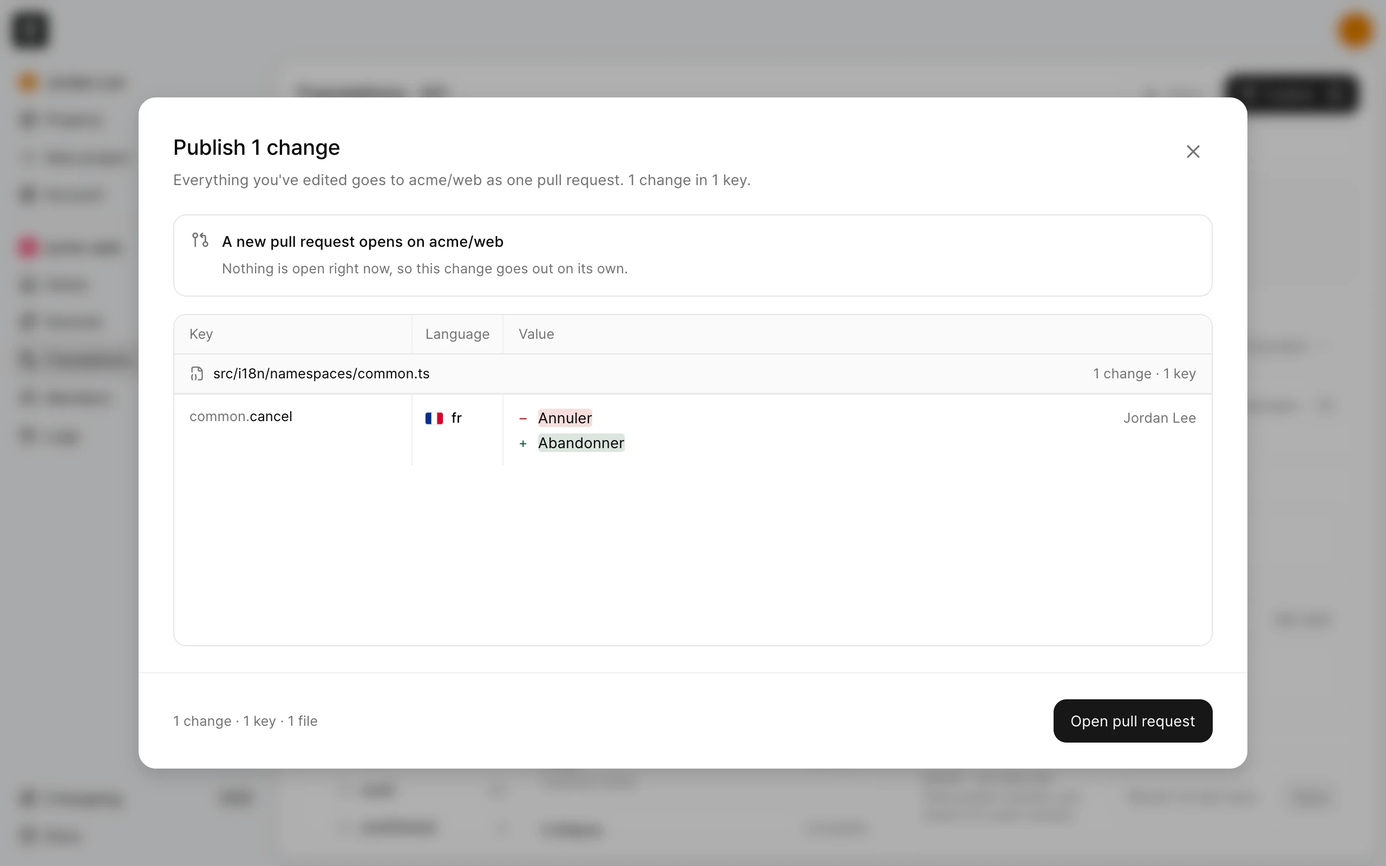
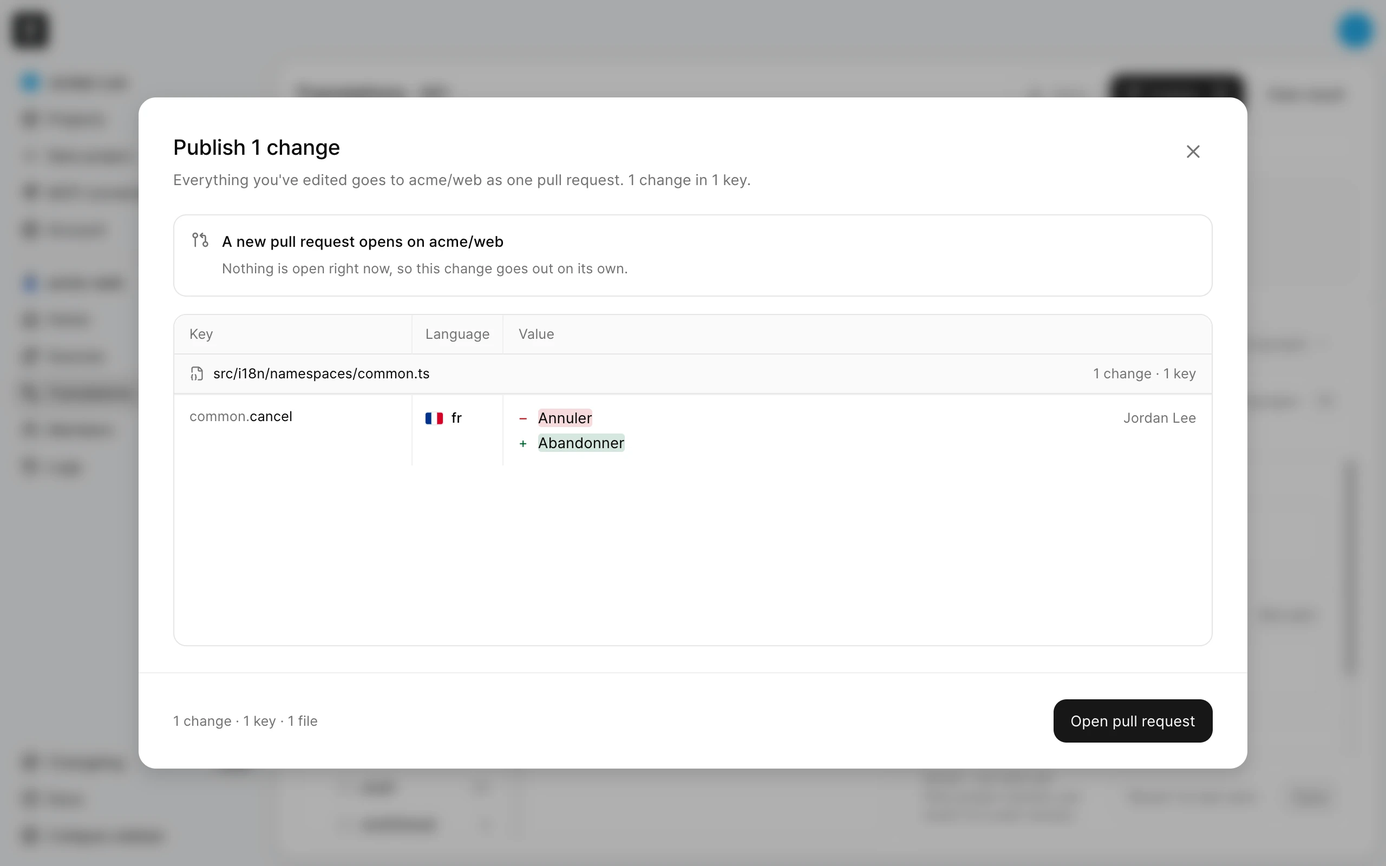
docs(guide): add 17 screenshots and reshoot the shell cuts
New full-viewport shots for Home, members, sources, archive, joining,
filters, publish, sync, revert, logs, account, and the MCP connector.
The three shell cuts are reshot for the MCP connector nav entry.

diff --git a/guide/SHOOTING.md b/guide/SHOOTING.md
@@ -35,8 +35,10 @@
 | bugshot-i18n-test-qa | acme-web |
 | malmoi-test-org | acme |
 | bugshot-i18n-test | web |
+| i18n-order-check | acme-mobile |
 
-**사람을 가리키는 값은 이 표에 적지 않는다** — 표 자체가 공개 리포에 커밋된다. 계정 표시 이름은 `Alex Kim`으로 바꾸고, 이메일·아바타·계정 메뉴는 크롭 밖으로 뺀다. 촬영자가 원본을 로컬에서만 들고 치환한다.
+**사람을 가리키는 값은 이 표에 적지 않는다** — 표 자체가 공개 리포에 커밋된다. 촬영자가 원본을 로컬에서만 들고 치환한다: OWNER 표시 이름·GitHub 로그인 → `Alex Kim`·`@alex-kim`, EDITOR 표시 이름 → `Jordan Lee`, 이메일(가려진 `ab***@…` 꼴 포함) → `@example.com` 주소, 사람 사진 → 치환 이름의 이니셜 원(`Avatar` 폴백 모양). 뷰포트 전체 규격이라 셸 좌상단·우상단 아바타가 늘 컷에 들어간다 — 크롭으로 뺄 수 없다.
+- 앱 origin `localhost:3000`은 `mal-moi.com`으로 바꾼다 — `/mcp`의 Server URL과 조각이 origin을 그대로 보인다(가이드 본문이 프로덕션 주소를 쓴다).
 
 - ⚠ **오너 GitHub 계정명은 원본으로 올릴 수 없다** — `SinhyeokKang/malmoi/...`는 action 경로라 `setup/allowed-actions.md`에 정당하게 있고, 게이트가 부분 문자열로 red를 낸다. 화면에서 그 계정이 사람으로 보이는 자리(셸 좌측 상단·계정 메뉴)는 크롭으로 뺀다. action 경로 속 계정명은 공개 식별자라 그대로 둔다.
 - 픽셀 안의 문자열은 게이트가 못 본다. 컷마다 눈으로 확인한다.
@@ -51,7 +53,24 @@
 | `/guide/workflow-file.webp` | `setup/workflow.md#workflow` | OWNER | 프로젝트 Settings → CI integration → Workflow file 모달 |
 | `/guide/actions-policy.webp` | `setup/allowed-actions.md#allowed-actions` | OWNER(GitHub) | 리포 Settings → Actions → General의 Actions permissions, 넷 패턴 입력 |
 | `/guide/translation-editor.webp` | `translate/edit.md#find-key` | EDITOR | Translations — Keys 목록 + 선택한 키의 언어별 칸 |
-| `/guide/publish-preview.webp` | `translate/publish.md#preview` | EDITOR | Publish 미리보기(저장한 편집 1건, 열린 PR 교체) |
+| `/guide/publish-preview.webp` | `translate/publish.md#preview` | EDITOR | Publish 미리보기(저장한 편집 1건, 새 PR) |
+| `/guide/project-home.webp` | `README.md` | OWNER | 프로젝트 Home — 카운트 카드 넷 + 프로젝트 메타 |
+| `/guide/invite-members.webp` | `setup/members.md#invite` | OWNER | Members → Invite member 모달, 가짜 주소 둘(전송 안 함) |
+| `/guide/members.webp` | `setup/members.md#members` | OWNER | Members 목록(Owner·Editor) + 빈 Pending invitations |
+| `/guide/sources.webp` | `setup/sources.md#sources` | OWNER | Sources 목록 — 소스 둘 |
+| `/guide/add-sources.webp` | `setup/sources.md#add-sources` | OWNER | Add sources 모달 — 감지 파일 + 미리보기 + Base language(추가 안 함) |
+| `/guide/archive-card.webp` | `setup/archive.md#archive` | OWNER | Settings를 Archive project 카드까지 스크롤(누르지 않음) |
+| `/guide/accept-invitation.webp` | `translate/join.md#join` | EDITOR | 초대 수락 화면(`/invite/<token>`) — dev DB에 심은 초대 1건, 수락 안 함 |
+| `/guide/state-filter.webp` | `translate/edit.md#find-key` | EDITOR | Translations의 State 필터 메뉴 펼침 |
+| `/guide/home-publish.webp` | `translate/publish.md#preview` | EDITOR | Home — 보낼 변경 1건, 켜진 Publish |
+| `/guide/publish-result.webp` | `translate/publish.md#result` | EDITOR | Publish 결과 `Nothing changed in the files`(GitHub 쓰기 없음) |
+| `/guide/home-paused.webp` | `sync/push.md#deferred` | OWNER | Home — To send 1 · repository updates paused |
+| `/guide/revert-confirm.webp` | `sync/revert.md#revert` | OWNER | Revert to last sent 확인창(`_locales` 셀 하나) |
+| `/guide/sync-discard.webp` | `sync/revert.md#resync` | OWNER | Sync 확인창 — 미전달 1건 폐기 경고(확정 안 함) |
+| `/guide/logs-event.webp` | `sync/logs.md#event-details` | OWNER | Logs(Kind: Publish)에서 연 Publish 사건 상세 |
+| `/guide/account.webp` | `account.md#profile` | OWNER | Account — Profile · Sign-in methods · GitHub App |
+| `/guide/mcp-create-token.webp` | `ai-agents.md#token` | EDITOR | MCP connector → Create token 모달 ①단계(만들지 않음 — ② 토큰 원문은 찍지 않는다) |
+| `/guide/mcp-connector.webp` | `ai-agents.md#connect` | OWNER | MCP connector — 토큰 카드(원문 없음) + Connect 카드 |
 
 ## 에셋 매핑 {#shots}
 
@@ -62,10 +81,27 @@
 | 에셋 | 소스 | blob | 치수 |
 | --- | --- | --- | --- |
 | /guide/push-token-secret.webp | lib/onboarding/workflow.ts | 863ed9ad9c93fd6265ccbd6e8719ce567b49ca0b | 2560x1600 |
-| /guide/workflow-file.webp | components/settings/ci-card.tsx, components/onboarding/workflow-block.tsx, lib/onboarding/workflow.ts | a51dd7329e19754536eec21e9165a067174e61c2, e099fcb70b6fca21b04b07c69217a0b2a0018f9e, 863ed9ad9c93fd6265ccbd6e8719ce567b49ca0b | 2560x1600 |
+| /guide/workflow-file.webp | components/settings/ci-card.tsx, components/onboarding/workflow-block.tsx, lib/onboarding/workflow.ts | 2433140d7a63d80b70a281e298fac0babb52c027, e099fcb70b6fca21b04b07c69217a0b2a0018f9e, 863ed9ad9c93fd6265ccbd6e8719ce567b49ca0b | 2560x1600 |
 | /guide/actions-policy.webp | lib/onboarding/workflow.ts, .github/actions/malmoi-i18n-push/action.yml | 863ed9ad9c93fd6265ccbd6e8719ce567b49ca0b, 7278e8afabcf49ab7691443251786b3352c276c6 | 2560x1600 |
-| /guide/translation-editor.webp | components/translations/workspace/key-list.tsx, components/translations/workspace/locale-panel.tsx | cafd131a5e8b57ae4a29f982c003ede91aab8a11, f17f4f6797c264157960eb1f78c2ffc592125130 | 2560x1600 |
-| /guide/publish-preview.webp | components/publish-button.tsx, lib/publish/preview.ts | 5da54cab3106be7df63d6093f2d28c42f2b643d5, d9707bc9dbbca0146284bda805a9bd1d7faa9ee0 | 2560x1600 |
+| /guide/translation-editor.webp | components/translations/workspace/key-list.tsx, components/translations/workspace/locale-panel.tsx | 0a18a5bcbc8fa31d663ea0dbf7523c2b72c4b6cc, 1616f975ee725ef8c687ea5f647ae3fecbe3e4ac | 2560x1600 |
+| /guide/publish-preview.webp | components/publish-button.tsx, lib/publish/preview.ts | 5da54cab3106be7df63d6093f2d28c42f2b643d5, 257ebc5a440efdd31731c6426b9851f869a41561 | 2560x1600 |
+| /guide/project-home.webp | app/(edit)/projects/[slug]/(home)/page.tsx, components/home/count-cards.tsx, components/home/meta-column.tsx | 4174b3928c6ed77494331c9f9271916d08020573, cd1ba61b1b8896bbb609c8abe427d58e48205709, de89009886e92c6592bd49c7a9f7671c273086ac | 2560x1600 |
+| /guide/invite-members.webp | components/members/invite-modal.tsx | a081452a0821600fc1e9ed02fb20dbd8073ae06e | 2560x1600 |
+| /guide/members.webp | components/members/member-list.tsx, components/members/member-row.tsx, components/members/pending-invitations.tsx | 4945fd24321dc38619c04e3251b1afc108785e09, 540128fd7eff236573687ebd7bbbec98a8dc09a8, b64f43fad2ebaed332569e381b893ecac7414db7 | 2560x1600 |
+| /guide/sources.webp | components/sources/sources-screen.tsx, components/sources/source-status.tsx | b19fe7e08e1e0e1eeb82dc6e273e13e6354faa33, 0a919f69e5584af9bf861731c25cdd85b12c8e63 | 2560x1600 |
+| /guide/add-sources.webp | components/sources/add-sources-modal.tsx | ca027d458d6e483d6702243847828090c9ad9d05 | 2560x1600 |
+| /guide/archive-card.webp | components/settings/archive-card.tsx | b16198f250b8322cffa1938286fb2814189851c3 | 2560x1600 |
+| /guide/accept-invitation.webp | app/invite/[token]/page.tsx, components/invite/project-card.tsx | f52c60923f6a8391492807fdf92bb8b473164029, f04bd2df388d5f046ad05818553e51c39fd45376 | 2560x1600 |
+| /guide/state-filter.webp | components/translations/workspace/filter-menu.tsx | 8122e89e1cd4f89a9de260f4d4eb875822d168dd | 2560x1600 |
+| /guide/home-publish.webp | app/(edit)/projects/[slug]/(home)/page.tsx, components/home/count-cards.tsx, components/publish-button.tsx | 4174b3928c6ed77494331c9f9271916d08020573, cd1ba61b1b8896bbb609c8abe427d58e48205709, 5da54cab3106be7df63d6093f2d28c42f2b643d5 | 2560x1600 |
+| /guide/publish-result.webp | components/publish-button.tsx | 5da54cab3106be7df63d6093f2d28c42f2b643d5 | 2560x1600 |
+| /guide/home-paused.webp | app/(edit)/projects/[slug]/(home)/page.tsx, components/home/count-cards.tsx | 4174b3928c6ed77494331c9f9271916d08020573, cd1ba61b1b8896bbb609c8abe427d58e48205709 | 2560x1600 |
+| /guide/revert-confirm.webp | components/translations/workspace/workspace.tsx, components/translations/edit-loss-banner.tsx | 0401ce55fb57f4b2b24b175da11fe2b9efea88af, 99d6e108205e3761d97872cf98c363ee1c634060 | 2560x1600 |
+| /guide/sync-discard.webp | components/home/sync-button.tsx | fbc0e86869a83eb51b2984f584911b83bf7fdb17 | 2560x1600 |
+| /guide/logs-event.webp | components/logs/event-dialog.tsx, components/logs/event-detail.tsx | cadf74e0cb02c69164c5d8bd828ea5441dc71d60, 9788954b94524cd0c09851a166375d9b89974660 | 2560x1600 |
+| /guide/account.webp | app/(edit)/account/page.tsx, components/account/profile-picture.tsx, components/account/login-methods.tsx, components/account/github-section.tsx | 6d03357fb3f33f6c8a21c869640d7f72f0bdca76, 37eec1067fce9caa706483a11deb51d76bf4f39b, dff3cf21dec15a3ca7006dee78278bd95b079324, e866658706416a009765e582123f1158decc7d6c | 2560x1600 |
+| /guide/mcp-create-token.webp | components/mcp/token-modal.tsx | 0c39813e1c5d081e99660558f8602c67887da1ce | 2560x1600 |
+| /guide/mcp-connector.webp | components/mcp/token-card.tsx, components/mcp/connect-card.tsx | 2211e89fc06a86eb77a0f5c43c30d1a8257641f1, c9c0e1d1ad212de2cc4cdd6a3ca2a30c04135561 | 2560x1600 |
 
 - ⚠ **셸이 컷에 들어간 뒤로 LNB·패널 머리·카드 머리(`components/shell/**`·`components/ui/panel-card.tsx` 등)의 변경도 모든 컷을 낡게 한다** — 소스로 올리면 신호가 죽으므로(`messages/en.tsx`와 같은 이유) 올리지 않는다. 셸을 바꿨으면 컷 전체를 손으로 다시 본다.
 
@@ -78,6 +114,10 @@
 - **GitHub 설정 화면에서 뷰포트 에뮬레이션(`Emulation.setDeviceMetricsOverride`)은 자동 모드 분류기가 막았다**(2026-09-27). ⚠ 2026-09-28에는 앱에서 건 에뮬레이션이 같은 탭의 github.com 이동 뒤에도 유지돼 막히지 않았다 — 막히면 앱 탭에서 걸고 이동한다. GitHub 테마는 촬영 계정의 설정(지금 다크)을 따른다 — 바꾸지 않는다.
 - **로그인 전환은 공급자의 계정 선택 화면으로 된다** — OWNER는 GitHub, EDITOR는 Google 계정이다. 비밀번호·2단계 인증을 묻으면 사람에게 넘긴다.
 
+- ⚠ **Revert to last sent는 전달 확인(`DeliveryConfirmation`)이 유효할 때만 켜진다** (2026-09-29): 확인이 무효인 소스에선 편집 직후에도 "The last sent version isn't available"로 꺼진다. **PR 없이 끝나는 Publish(`Nothing differs from dev` → `Nothing changed in the files`)가 새 확인을 세운다** — 그 뒤에 한 편집은 기준이 기록돼 Revert가 켜지고, 확인창 촬영 뒤 실제 Revert로 셀을 되돌리면 미전달 표시까지 GitHub 쓰기 없이 지워진다. 순서: 편집 → 원래 값으로 재저장 → Publish(Nothing differs) → 새 편집 → Revert 확인창 촬영 → Revert.
+- **새 프로젝트 흐름(①–③)은 OWNER가 활성 프로젝트 상한(셋)이면 `/projects/new`가 목록으로 돌려보낸다** (2026-09-29 — 같은 dev DB를 쓰는 다른 QA가 MCP로 프로젝트를 만들어 셋이 됐다). 남의 프로젝트를 보관·삭제해 자리를 만들지 않는다.
+- **dev DB는 다른 워커·preview와 함께 쓴다** — 촬영 중에 프로젝트 수·Logs·Projects 배지가 바뀔 수 있다. 촬영 전후 상태를 스냅샷으로 대조한다.
+
 ## 진행 상태 {#progress}
 
 - 2026-09-27 초판 촬영 — 컷 목록 다섯 전부 반영. 남은 컷 없음.
@@ -87,3 +127,4 @@
 - 2026-09-27 `/guide/workflow-file.webp` 재촬영 — #120이 모달의 중복 문장(`Save this in your repository as …`)을 지우고 힌트 링크를 `Add the workflow`로 바꿨다.
 - 2026-09-27 action v2(action-run-cache) — `workflow.ts`(checkout v7.0.1·`@malmoi-i18n-push-v2`)·`action.yml`(셋업 판 교체) 변경으로 `push-token-secret`·`workflow-file`·`actions-policy`가 stale — **재촬영 없이 blob SHA만 갱신**했다. 바뀐 줄은 `workflow-file`의 스크롤 아래이고, 허용 목록 넷(`@*`)과 GitHub 화면은 그대로다.
 - 2026-09-28 **규격 전환 — 뷰포트 전체(1280×800 · DPR 2 · 셸과 Dim 포함)로 다섯 컷 전부 재촬영**(사용자). 같은 날 셸 변경(PanelHeader·카드 머리 12/16, 번역 화면 카드 머리 52, LNB Changelog 버전 배지)이 들어간 화면이다. README가 같은 다섯 파일을 쓰고, README 전용은 `docs/assets/readme/hero.webp`(1400×875)·`logs.webp`(1280×800) 둘이다. 편집자 장 컷(`translation-editor`·`publish-preview`)은 EDITOR 계정이고 표시 이름을 `Jordan Lee`로 치환했다. Publish 촬영용 편집(`common.cancel` fr `Abandonner`)은 `Annuler`로 되돌리고 OWNER의 "Nothing differs" Publish로 미전달 표시를 지웠다.
+- 2026-09-29 **컷 17장 추가 + 셸 컷 재촬영**(사용자 — "add more screenshots all over the docs"). 추가: `project-home` · `invite-members` · `members` · `sources` · `add-sources` · `archive-card` · `accept-invitation` · `state-filter` · `home-publish` · `publish-result` · `home-paused` · `revert-confirm` · `sync-discard` · `logs-event` · `account` · `mcp-create-token` · `mcp-connector`. 재촬영: stale 셋(`workflow-file` · `translation-editor` · `publish-preview`) — LNB에 MCP 로고 `MCP connector`가 선 셸 — 과 README 두 장(`hero` · `logs`, `logs`는 Kind: Publish로 거른 목록). GitHub 화면 둘(`push-token-secret` · `actions-policy`)은 셸이 없어 그대로다. 건너뜀: `setup/create-project.md`(①–③은 위 상한 벽, ④ `Malmoi is ready`는 벽 + 버튼 문구 변경 예정이라 지휘자가 제외). 초대 수락 컷은 dev DB에 초대 1건을 심어 찍고 수락 없이 id로 지웠다. 편집·Publish 흔적: `common.cancel` fr · `EXT_NAME` fr · `cancelConfirm.body` fr을 각각 원래 값으로 되돌렸고 미전달 0, Logs에 편집·`Nothing changed` Publish 2건·Revert 1건이 남았다(사건은 지우지 않는다).

diff --git a/guide/sync/revert.md b/guide/sync/revert.md
@@ -10,6 +10,8 @@ Before you start: Save or discard any open translation edit before using either 
 2. Read the confirmation, which lists the affected languages. All unpublished edits for this key are included, even those saved by another teammate.
 3. Choose **Revert** to restore their last confirmed published values, or **Cancel** to keep the edits.
 
+![The Revert confirmation naming the one language that goes back to its last confirmed version, with Cancel and Revert buttons](/guide/revert-confirm.webp "Check the listed languages, then choose Revert.")
+
 If a previous published value is unavailable for any affected language, nothing is reverted. If someone changes the values while the dialog is open, choose **Review again** before confirming. Reverting leaves **Needs review** unchanged.
 
 ## Sync from the repository {#resync}
@@ -17,6 +19,8 @@ If a previous published value is unavailable for any affected language, nothing 
 1. Choose **Sync** at the top of **Home** or **Translations**.
 2. If unpublished edits exist, the dialog shows how many will be discarded.
 3. Choose **Discard changes and sync** when unpublished edits exist, or **Sync from repository** when there are none. Close the dialog to keep the changes.
+
+![The Sync confirmation warning that one unsent translation change will be discarded, with a Discard changes and sync button](/guide/sync-discard.webp "Check how many edits will be discarded before you sync.")
 
 Only project owners can use Sync; editors see it turned off in Translations. Sync reads the files on the base branch directly. The result lists any source that could not be read or was not replaced. Files that were read successfully supply the replacement values. Edits saved after you confirmed, and edits that could not be replaced, remain saved; check the remaining-edit count in the result.
 

diff --git a/guide/ai-agents.md b/guide/ai-agents.md
@@ -14,6 +14,8 @@ The agent connects over MCP (Model Context Protocol) at `https://mal-moi.com/api
 4. Under **Scope**, choose **All my projects** or **Chosen projects**.
 5. Choose **Create**, then **Copy** the token. It is shown only once; choose **Done** after you have stored it.
 
+![Step 1 of 2 of the Create token dialog with 90 days selected, Translate & publish checked, and All my projects chosen](/guide/mcp-create-token.webp "Choose the expiry, the allowed actions, and the scope, then create the token.")
+
 Keep the token out of files and chat. Store it in the `MALMOI_TOKEN` environment variable of the shell that starts your agent, for example with `read -s MALMOI_TOKEN && export MALMOI_TOKEN` and then pasting the token. The connection snippets below read that variable, so the token itself never appears in a settings file.
 
 You have one token at a time. To change what it allows, choose **Rotate**, then **Rotate and show new token**; the old token stops working immediately, and every agent using it stops until you give it the new one. **Revoke** stops the token without creating a new one. An expired token shows **Expired**; create a new one.
@@ -21,6 +23,8 @@ You have one token at a time. To change what it allows, choose **Rotate**, then 
 ## Add Malmoi to your agent {#connect}
 
 The **Connect** card on the **MCP connector** page shows the same snippets with the server address for the site you are using.
+
+![The MCP connector page with the current token's allowed actions, scope, and expiry above the Connect card and its Claude Code snippet](/guide/mcp-connector.webp "Copy the snippet for your agent from the Connect card.")
 
 ### Claude Code {#claude-code}
 

diff --git a/guide/setup/members.md b/guide/setup/members.md
@@ -15,6 +15,8 @@ Choose **Owner** only for someone who should manage the repository connection, *
 3. Enter addresses and choose a role for each row.
 4. Send the invitations.
 
+![The Invite members dialog with two email addresses, the Editor role chosen for each, and a button that sends both invitations](/guide/invite-members.webp "Enter each address, choose a role, and send the invitations.")
+
 If any address would exceed a limit, no invitations are sent. A failed email still counts toward the hourly limit.
 
 Each address appears under **Pending invitations** after the invitation is created. Check the sending result before closing the invitation dialog; a listed invitation does not by itself mean the email arrived.
@@ -22,6 +24,8 @@ Each address appears under **Pending invitations** after the invitation is creat
 ## Manage members {#members}
 
 Project owners can change a member's role, choose **Remove** for a member, or manage **Pending invitations** with **Revoke** and **Resend**. A pending invitation's role cannot change; revoke it and invite the address again. See [Join a project](../translate/join.md) for the recipient's steps.
+
+![The Members list with an Owner and an Editor, each with a role menu and a Remove button, above an empty list of pending invitations](/guide/members.webp "Change a role or remove a member from the list.")
 
 ## What happens next {#next}
 

diff --git a/guide/setup/sources.md b/guide/setup/sources.md
@@ -8,11 +8,15 @@ Each source is one set of translation files in your repository. Project owners c
 
 Open **Sources** from the project navigation. Each row shows whether the source has been read, whether its status is **Last sync failed** or **First sync failed**, and which languages are available.
 
+![The Sources page listing two synced sources with their file paths, key counts, and languages](/guide/sources.webp "Each source is one set of translation files.")
+
 ## Add sources {#add-sources}
 
 1. Choose **Add sources**, then choose detected files or enter a supported path.
 2. Choose the **Base language** for each selection, then choose **Add selected sources**. A file can fail while the other files are added, so check each result.
 3. Follow the result's **Settings** link and copy the new source steps from the generated workflow into your repository's workflow file. Adding sources does not edit that file automatically.
+
+![The Add sources dialog with detected translation files on the left, a preview of their keys and values, and a base language menu](/guide/add-sources.webp "Select files, check the preview, and choose a base language.")
 
 ## Change the base language {#base-language}
 

diff --git a/guide/translate/publish.md b/guide/translate/publish.md
@@ -8,6 +8,8 @@ Before you start: Save the values you want to publish. Publish includes all save
 
 Malmoi puts the files into one change request (a *pull request* on GitHub). You do not need a GitHub account; the development team reviews and merges it.
 
+![A project's Home with one change to send and an active Publish button showing the count](/guide/home-publish.webp "Publish is at the top of Home.")
+
 1. Choose **Publish** at the top of **Home** or **Translations**.
 2. Review the pieces of text (keys) and languages in the preview, then use the action described below.
 
@@ -32,6 +34,8 @@ The result can say:
 - An open pull request was closed — the files already match the repository.
 - GitHub did not answer — try again later.
 - **We couldn't confirm whether your changes were sent.** Check **Logs** before trying again.
+
+![The Publish result saying nothing changed in the files because the edits were already in the repository](/guide/publish-result.webp "Read the result before you close it.")
 
 ## Automatic publishing {#nightly}
 

diff --git a/guide/sync/push.md b/guide/sync/push.md
@@ -12,6 +12,8 @@ Run the generated workflow on the base branch. The workflow checks the push toke
 
 If any translation has an unpublished edit, the workflow succeeds and reports `deferred`. New and removed keys wait too; the repository is not partially loaded. Publish the edits and run the workflow again, or a project owner can resolve them with [Undo and resync](revert.md). Publishing removes the protection for the edits that were published, even before the pull request is merged. Merge that pull request before the next repository update if you want those values to remain in Malmoi.
 
+![A project's Home with one unsent change to send and a note that repository updates are paused](/guide/home-paused.webp "Unpublished edits hold repository updates until they are published.")
+
 ## Keep removed keys {#removed-keys}
 
 A key missing from the repository is kept rather than deleted. Its translations remain available if the key returns in a later workflow run.

diff --git a/guide/translate/edit.md b/guide/translate/edit.md
@@ -12,6 +12,8 @@ The key list is on the left. Each row is one piece of text in the app — a *key
 
 **Scope** starts at **This source**, which shows only keys from the same set of translation files; choose **All sources** to widen it. Choose **This namespace** to narrow the list to the selected group of keys. **Clear filters** resets the scope, completion, and state filters; it keeps your search text. The **State** filter includes **Not sent**, **Needs review**, and **New from GitHub**. Needs review marks translations whose source text changed; it is not an approval step.
 
+![The translation screen with the state filter open, listing Any state, Not sent, Needs review, and New from GitHub](/guide/state-filter.webp "Narrow the list by state.")
+
 ## Edit and save {#save}
 
 1. Select a row in the key list.

diff --git a/guide/translate/join.md b/guide/translate/join.md
@@ -10,6 +10,8 @@ An invitation is tied to the address that received it. You can sign in with GitH
 2. Sign in with the invited address. For GitHub, the invited address must be your GitHub primary email.
 3. Choose **Accept invitation**. Malmoi opens the project.
 
+![An invitation page showing the invited email address, the project with the Editor role, and an Accept invitation button](/guide/accept-invitation.webp "Check the address, then accept the invitation.")
+
 Invitations to archived projects cannot be accepted. The link stops working once you accept it, after seven days, or if a project owner revokes or resends it. Do not forward it: it works only for the invited address.
 
 ## Resolve invitation problems {#invitation-problems}

diff --git a/guide/setup/archive.md b/guide/setup/archive.md
@@ -11,6 +11,8 @@ Before archiving, merge or close any open translation pull request if you do not
 1. Open **Settings** and choose **Archive project**.
 2. Read the confirmation, then choose Archive project again. The button changes to **Restore project**.
 
+![Project Settings scrolled down to the Archive project card below the repository and CI integration cards](/guide/archive-card.webp "Choose Archive project at the bottom of Settings.")
+
 Members can still open **Logs**; other project pages are unavailable while archived, although project owners may open Settings.
 
 While archived, a workflow run gets a 409 response and the repository workflow turns red. Remove the workflow or restore the project.

diff --git a/guide/sync/logs.md b/guide/sync/logs.md
@@ -17,6 +17,8 @@ If filters hide every event, the list says so; choose **Clear filters** to see e
 
 Open an event to inspect its details without changing the list filters. Translation events identify the key and source; sync and Publish events show their observed result.
 
+![An event opened from Logs: a Publish run that sent two files to GitHub, with its trigger and a link to the pull request](/guide/logs-event.webp "Open an event to see its details.")
+
 ## Read archived history {#archived-history}
 
 Current members can read Logs after a project is archived. Archive blocks project writes and settings changes; it does not erase the activity history.

diff --git a/guide/README.md b/guide/README.md
@@ -3,3 +3,5 @@
 Malmoi is a localization tool for GitHub repositories. It finds the translation files already in a repository, lets teammates edit translations in the browser without using Git, and sends saved changes back as one pull request for the development team to review.
 
 Set up a project to connect your repository, or join your team to edit and publish translations.
+
+![A project's Home with counts for new keys, text to translate, text to review, and changes to send, next to the project's repository details](/guide/project-home.webp "Open a project to see what needs attention.")
